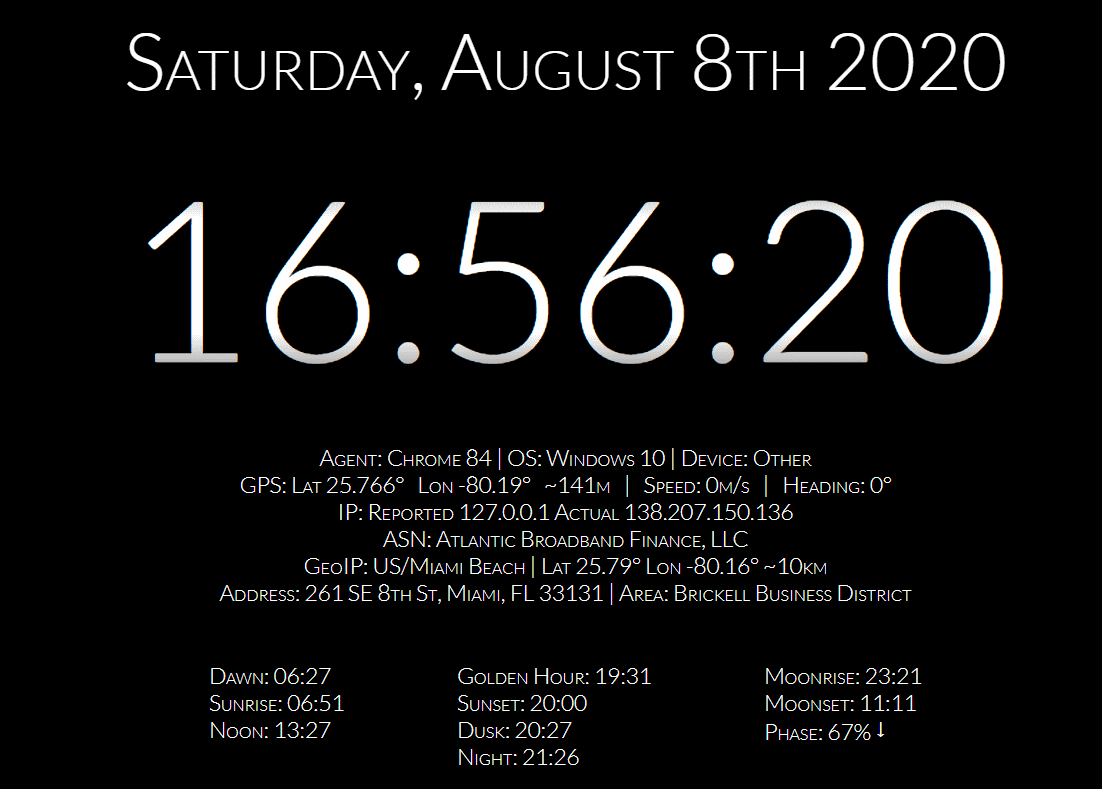
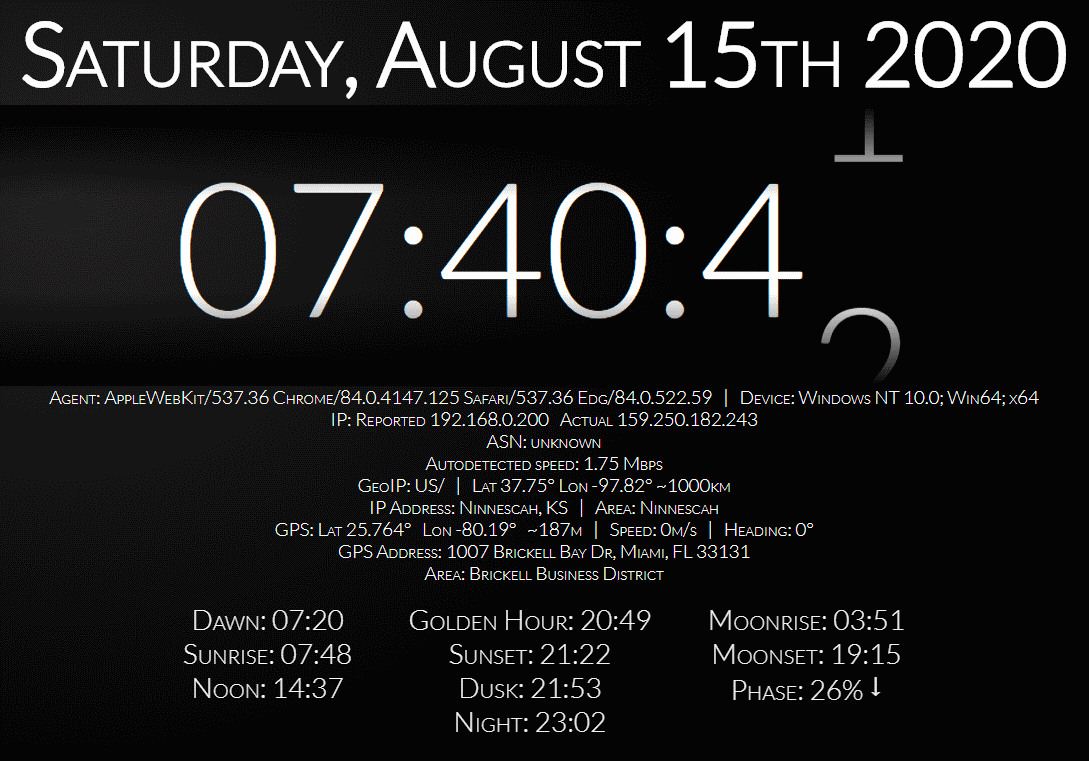
simplified

diff --git a/public/suncalc.js b/public/suncalc.js
@@ -1,1 +1,186 @@
-!function(){"use strict";var n=Math.PI,t=Math.sin,e=Math.cos,r=Math.tan,a=Math.asin,u=Math.atan2,o=Math.acos,i=n/180;function c(n){return new Date(864e5*(n+.5-2440588))}function d(n){return function(n){return n.valueOf()/864e5-.5+2440588}(n)-2451545}var s=23.4397*i;function f(n,a){return u(t(n)*e(s)-r(a)*t(s),e(n))}function l(n,r){return a(t(r)*e(s)+e(r)*t(s)*t(n))}function h(n,a,o){return u(t(n),e(n)*t(a)-r(o)*e(a))}function M(n,r,u){return a(t(r)*t(u)+e(r)*e(u)*e(n))}function g(n,t){return i*(280.16+360.9856235*n)-t}function v(n){return i*(357.5291+.98560028*n)}function w(e){return e+i*(1.9148*t(e)+.02*t(2*e)+3e-4*t(3*e))+102.9372*i+n}function m(n){var t=w(v(n));return{dec:l(t,0),ra:f(t,0)}}var p={getPosition:function(n,t,e){var r=i*-e,a=i*t,u=d(n),o=m(u),c=g(u,r)-o.ra;return{azimuth:h(c,a,o.dec),altitude:M(c,a,o.dec)}}},D=p.times=[[-.833,"sunrise","sunset"],[-.3,"sunriseEnd","sunsetStart"],[-6,"dawn","dusk"],[-12,"nauticalDawn","nauticalDusk"],[-18,"nightEnd","night"],[6,"goldenHourEnd","goldenHour"]];p.addTime=function(n,t,e){D.push([n,t,e])};function P(t,e,r){return 9e-4+(t+e)/(2*n)+r}function y(n,e,r){return 2451545+n+.0053*t(e)-.0069*t(2*r)}function b(n,r,a,u,i,c,d){return y(P(function(n,r,a){return o((t(n)-t(r)*t(a))/(e(r)*e(a)))}(n,a,u),r,i),c,d)}function H(n){var r=i*(134.963+13.064993*n),a=i*(93.272+13.22935*n),u=i*(218.316+13.176396*n)+6.289*i*t(r),o=5.128*i*t(a),c=385001-20905*e(r);return{ra:f(u,o),dec:l(u,o),dist:c}}function T(n,t){return new Date(n.valueOf()+864e5*t/24)}p.getTimes=function(t,e,r){var a,u,o,s,f,h=i*-r,M=i*e,g=function(t,e){return Math.round(t-9e-4-e/(2*n))}(d(t),h),m=P(0,h,g),p=v(m),H=w(p),T=l(H,0),E=y(m,p,H),I={solarNoon:c(E),nadir:c(E-.5)};for(a=0,u=D.length;a<u;a+=1)f=E-((s=b((o=D[a])[0]*i,h,M,T,g,p,H))-E),I[o[1]]=c(f),I[o[2]]=c(s);return I},p.getMoonPosition=function(n,a,o){var c=i*-o,s=i*a,f=d(n),l=H(f),v=g(f,c)-l.ra,w=M(v,s,l.dec),m=u(t(v),r(s)*e(l.dec)-t(l.dec)*e(v));return w+=function(n){return n<0&&(n=0),2967e-7/Math.tan(n+.00312536/(n+.08901179))}(w),{azimuth:h(v,s,l.dec),altitude:w,distance:l.dist,parallacticAngle:m}},p.getMoonIllumination=function(n){var r=d(n||new Date),a=m(r),i=H(r),c=o(t(a.dec)*t(i.dec)+e(a.dec)*e(i.dec)*e(a.ra-i.ra)),s=u(149598e3*t(c),i.dist-149598e3*e(c)),f=u(e(a.dec)*t(a.ra-i.ra),t(a.dec)*e(i.dec)-e(a.dec)*t(i.dec)*e(a.ra-i.ra));return{fraction:(1+e(s))/2,phase:.5+.5*s*(f<0?-1:1)/Math.PI,angle:f}},p.getMoonTimes=function(n,t,e,r){var a=new Date(n);r?a.setUTCHours(0,0,0,0):a.setHours(0,0,0,0);for(var u,o,c,d,s,f,l,h,M,g,v,w,m,D=.133*i,P=p.getMoonPosition(a,t,e).altitude-D,y=1;y<=24&&(u=p.getMoonPosition(T(a,y),t,e).altitude-D,h=((s=(P+(o=p.getMoonPosition(T(a,y+1),t,e).altitude-D))/2-u)*(l=-(f=(o-P)/2)/(2*s))+f)*l+u,g=0,(M=f*f-4*s*u)>=0&&(v=l-(m=Math.sqrt(M)/(2*Math.abs(s))),w=l+m,Math.abs(v)<=1&&g++,Math.abs(w)<=1&&g++,v<-1&&(v=w)),1===g?P<0?c=y+v:d=y+v:2===g&&(c=y+(h<0?w:v),d=y+(h<0?v:w)),!c||!d);y+=2)P=o;var b={};return c&&(b.rise=T(a,c)),d&&(b.set=T(a,d)),c||d||(b[h>0?"alwaysUp":"alwaysDown"]=!0),b},"object"==typeof exports&&"undefined"!=typeof module?module.exports=p:"function"==typeof define&&define.amd?define(p):window.SunCalc=p}();
+/*
+ Based on (c) 2011-2015, Vladimir Agafonkin https://github.com/mourner/suncalc
+*/
+
+// eslint-disable-next-line func-names
+(function () {
+  // shortcuts for easier to read formulas
+  const PI = Math.PI;
+  const sin = Math.sin;
+  const cos = Math.cos;
+  const tan = Math.tan;
+  const asin = Math.asin;
+  const atan = Math.atan2;
+  const acos = Math.acos;
+  const rad = PI / 180;
+  // sun calculations are based on http://aa.quae.nl/en/reken/zonpositie.html formulas
+  // date/time constants and conversions
+  const dayMs = 1000 * 60 * 60 * 24;
+  const J1970 = 2440588;
+  const J2000 = 2451545;
+  function toJulian(date) { return date.valueOf() / dayMs - 0.5 + J1970; }
+  function fromJulian(j) { return new Date((j + 0.5 - J1970) * dayMs); }
+  function toDays(date) { return toJulian(date) - J2000; }
+  // general calculations for position
+  const e = rad * 23.4397; // obliquity of the Earth
+  function rightAscension(l, b) { return atan(sin(l) * cos(e) - tan(b) * sin(e), cos(l)); }
+  function declination(l, b) { return asin(sin(b) * cos(e) + cos(b) * sin(e) * sin(l)); }
+  function azimuth(H, phi, dec) { return atan(sin(H), cos(H) * sin(phi) - tan(dec) * cos(phi)); }
+  function altitude(H, phi, dec) { return asin(sin(phi) * sin(dec) + cos(phi) * cos(dec) * cos(H)); }
+  function siderealTime(d, lw) { return rad * (280.16 + 360.9856235 * d) - lw; }
+  function astroRefraction(h) {
+    if (h < 0) h = 0; // the following formula works for positive altitudes only. if h = -0.08901179 a div/0 would occur.
+    // formula 16.4 of "Astronomical Algorithms" 2nd edition by Jean Meeus (Willmann-Bell, Richmond) 1998.
+    // 1.02 / tan(h + 10.26 / (h + 5.10)) h in degrees, result in arc minutes -> converted to rad:
+    return 0.0002967 / Math.tan(h + 0.00312536 / (h + 0.08901179));
+  }
+  // general sun calculations
+  function solarMeanAnomaly(d) { return rad * (357.5291 + 0.98560028 * d); }
+  function eclipticLongitude(M) {
+    const C = rad * (1.9148 * sin(M) + 0.02 * sin(2 * M) + 0.0003 * sin(3 * M)); // equation of center
+    const P = rad * 102.9372; // perihelion of the Earth
+    return M + C + P + PI;
+  }
+  function sunCoords(d) {
+    const M = solarMeanAnomaly(d);
+    const L = eclipticLongitude(M);
+    return { dec: declination(L, 0), ra: rightAscension(L, 0) };
+  }
+  const SunCalc = {};
+  // calculates sun position for a given date and latitude/longitude
+  SunCalc.getPosition = (date, lat, lng) => {
+    const lw = rad * -lng;
+    const phi = rad * lat;
+    const d = toDays(date);
+    const c = sunCoords(d);
+    const H = siderealTime(d, lw) - c.ra;
+    return { azimuth: azimuth(H, phi, c.dec), altitude: altitude(H, phi, c.dec) };
+  };
+  // sun times configuration (angle, morning name, evening name)
+  SunCalc.times = [[-0.833, 'sunrise', 'sunset'], [-0.3, 'sunriseEnd', 'sunsetStart'], [-6, 'dawn', 'dusk'], [-12, 'nauticalDawn', 'nauticalDusk'], [-18, 'nightEnd', 'night'], [6, 'goldenHourEnd', 'goldenHour']];
+  const times = SunCalc.times;
+  // adds a custom time to the times config
+  SunCalc.addTime = (angle, riseName, setName) => times.push([angle, riseName, setName]);
+  // calculations for sun times
+  const J0 = 0.0009;
+  function julianCycle(d, lw) { return Math.round(d - J0 - lw / (2 * PI)); }
+  function approxTransit(Ht, lw, n) { return J0 + (Ht + lw) / (2 * PI) + n; }
+  function solarTransitJ(ds, M, L) { return J2000 + ds + 0.0053 * sin(M) - 0.0069 * sin(2 * L); }
+  function hourAngle(h, phi, d) { return acos((sin(h) - sin(phi) * sin(d)) / (cos(phi) * cos(d))); }
+  function observerAngle(height) { return -2.076 * Math.sqrt(height) / 60; }
+  // returns set time for the given sun altitude
+  function getSetJ(h, lw, phi, dec, n, M, L) {
+    const w = hourAngle(h, phi, dec);
+    const a = approxTransit(w, lw, n);
+    return solarTransitJ(a, M, L);
+  }
+  // calculates sun times for a given date, latitude/longitude, and, optionally,
+  // the observer height (in meters) relative to the horizon
+  SunCalc.getTimes = (date, lat, lng, height) => {
+    height = height || 0;
+    const lw = rad * -lng;
+    const phi = rad * lat;
+    const dh = observerAngle(height);
+    const d = toDays(date);
+    const n = julianCycle(d, lw);
+    const ds = approxTransit(0, lw, n);
+    const M = solarMeanAnomaly(ds);
+    const L = eclipticLongitude(M);
+    const dec = declination(L, 0);
+    const Jnoon = solarTransitJ(ds, M, L);
+    let i; let len; let time; let h0; let Jset; let Jrise;
+    const result = { solarNoon: fromJulian(Jnoon), nadir: fromJulian(Jnoon - 0.5) };
+    for (i = 0, len = times.length; i < len; i += 1) {
+      time = times[i];
+      h0 = (time[0] + dh) * rad;
+      Jset = getSetJ(h0, lw, phi, dec, n, M, L);
+      Jrise = Jnoon - (Jset - Jnoon);
+      result[time[1]] = fromJulian(Jrise);
+      result[time[2]] = fromJulian(Jset);
+    }
+    return result;
+  };
+  // moon calculations, based on http://aa.quae.nl/en/reken/hemelpositie.html formulas
+  function moonCoords(d) { // geocentric ecliptic coordinates of the moon
+    const L = rad * (218.316 + 13.176396 * d); // ecliptic longitude
+    const M = rad * (134.963 + 13.064993 * d); // mean anomaly
+    const F = rad * (93.272 + 13.229350 * d); // mean distance
+    const l = L + rad * 6.289 * sin(M); // longitude
+    const b = rad * 5.128 * sin(F); // latitude
+    const dt = 385001 - 20905 * cos(M); // distance to the moon in km
+    return { ra: rightAscension(l, b), dec: declination(l, b), dist: dt };
+  }
+  SunCalc.getMoonPosition = (date, lat, lng) => {
+    const lw = rad * -lng;
+    const phi = rad * lat;
+    const d = toDays(date);
+    const c = moonCoords(d);
+    const H = siderealTime(d, lw) - c.ra;
+    let h = altitude(H, phi, c.dec);
+    // formula 14.1 of "Astronomical Algorithms" 2nd edition by Jean Meeus (Willmann-Bell, Richmond) 1998.
+    const pa = atan(sin(H), tan(phi) * cos(c.dec) - sin(c.dec) * cos(H));
+    h += astroRefraction(h); // altitude correction for refraction
+    return { azimuth: azimuth(H, phi, c.dec), altitude: h, distance: c.dist, parallacticAngle: pa };
+  };
+  // calculations for illumination parameters of the moon,
+  // based on http://idlastro.gsfc.nasa.gov/ftp/pro/astro/mphase.pro formulas and
+  // Chapter 48 of "Astronomical Algorithms" 2nd edition by Jean Meeus (Willmann-Bell, Richmond) 1998.
+  SunCalc.getMoonIllumination = (date) => {
+    const d = toDays(date || new Date());
+    const s = sunCoords(d);
+    const m = moonCoords(d);
+    const sdist = 149598000; // distance from Earth to Sun in km
+    const phi = acos(sin(s.dec) * sin(m.dec) + cos(s.dec) * cos(m.dec) * cos(s.ra - m.ra));
+    const inc = atan(sdist * sin(phi), m.dist - sdist * cos(phi));
+    const angle = atan(cos(s.dec) * sin(s.ra - m.ra), sin(s.dec) * cos(m.dec) - cos(s.dec) * sin(m.dec) * cos(s.ra - m.ra));
+    return { fraction: (1 + cos(inc)) / 2, phase: 0.5 + 0.5 * inc * (angle < 0 ? -1 : 1) / Math.PI, angle };
+  };
+  function hoursLater(date, h) {
+    return new Date(date.valueOf() + h * dayMs / 24);
+  }
+  // calculations for moon rise/set times are based on http://www.stargazing.net/kepler/moonrise.html article
+  SunCalc.getMoonTimes = (date, lat, lng, inUTC) => {
+    const t = new Date(date);
+    if (inUTC) t.setUTCHours(0, 0, 0, 0);
+    else t.setHours(0, 0, 0, 0);
+    const hc = 0.133 * rad;
+    let h0 = SunCalc.getMoonPosition(t, lat, lng).altitude - hc;
+    let h1; let h2; let rise; let set; let a; let b; let xe; let ye; let d; let roots; let x1; let x2; let dx;
+    // go in 2-hour chunks, each time seeing if a 3-point quadratic curve crosses zero (which means rise or set)
+    for (let i = 1; i <= 24; i += 2) {
+      h1 = SunCalc.getMoonPosition(hoursLater(t, i), lat, lng).altitude - hc;
+      h2 = SunCalc.getMoonPosition(hoursLater(t, i + 1), lat, lng).altitude - hc;
+      a = (h0 + h2) / 2 - h1;
+      b = (h2 - h0) / 2;
+      xe = -b / (2 * a);
+      ye = (a * xe + b) * xe + h1;
+      d = b * b - 4 * a * h1;
+      roots = 0;
+      if (d >= 0) {
+        dx = Math.sqrt(d) / (Math.abs(a) * 2);
+        x1 = xe - dx;
+        x2 = xe + dx;
+        if (Math.abs(x1) <= 1) roots += 1;
+        if (Math.abs(x2) <= 1) roots += 1;
+        if (x1 < -1) x1 = x2;
+      }
+      if (roots === 1) {
+        if (h0 < 0) rise = i + x1;
+        else set = i + x1;
+      } else if (roots === 2) {
+        rise = i + (ye < 0 ? x2 : x1);
+        set = i + (ye < 0 ? x1 : x2);
+      }
+      if (rise && set) break;
+      h0 = h2;
+    }
+    const result = {};
+    if (rise) result.rise = hoursLater(t, rise);
+    if (set) result.set = hoursLater(t, set);
+    if (!rise && !set) result[ye > 0 ? 'alwaysUp' : 'alwaysDown'] = true;
+    return result;
+  };
+  // export as Node module / AMD module / browser variable
+  if (typeof exports === 'object' && typeof module !== 'undefined') module.exports = SunCalc;
+  else window.SunCalc = SunCalc;
+}());

diff --git a/public/piclock.js b/public/piclock.js
@@ -1,4 +1,4 @@
-/* global SunCalc, moment */
+/* global SunCalc */
 
 async function printAstronomy(lat, lon) {
   // eslint-disable-next-line no-console
@@ -9,7 +9,7 @@ async function printAstronomy(lat, lon) {
   const moon = SunCalc.getMoonTimes(dt, lat || 0, lon || 0);
   const pos = SunCalc.getMoonIllumination(dt);
   const phase = `<span style="display:inline-block;transform:rotate(${(pos.phase <= 0.5) ? 0 : 180}deg);"> ↑ </span>`;
-  const time = (date) => moment(date).format('HH:mm');
+  const time = (date) => `${new Date(date).getHours().toString().padStart(2, '0')}:${new Date(date).getMinutes().toString().padStart(2, '0')}`;
   div.innerHTML = `
     <span class="astronomy">Dawn: ${time(sun.dawn)}<br>Sunrise: ${time(sun.sunrise)}<br>Noon: ${time(sun.solarNoon)}</span>
     <span class="astronomy">Golden Hour: ${time(sun.goldenHour)}<br>Sunset: ${time(sun.sunsetStart)}<br>Dusk: ${time(sun.dusk)}<br>Night: ${time(sun.night)}</span>
@@ -76,7 +76,58 @@ async function lookupConn() {
   document.getElementById('div-connection').innerHTML = ((conn.type && conn.type !== 'unknown') ? `Connection: ${conn.type} | ` : '') + (conn.downlink ? `Autodetected speed: ${conn.downlink} Mbps` : '');
 }
 
+let last = new Date(0);
+
+function updateNumber(element, number) {
+  const second = element.lastElementChild.cloneNode(true);
+  second.textContent = number;
+  element.classList.add('clock-move');
+  element.appendChild(second);
+  setTimeout(() => {
+    element.classList.remove('clock-move');
+    element.removeChild(element.firstElementChild);
+  }, 750);
+}
+
+function updateContainer(container, time) {
+  const s = time.toString().padStart(2, '0').split('');
+  const first = container.firstElementChild;
+  if (first.lastElementChild.textContent !== s[0]) updateNumber(first, s[0]);
+  const second = container.lastElementChild;
+  if (second.lastElementChild.textContent !== s[1]) updateNumber(second, s[1]);
+}
+
+function updateTime() {
+  const now = new Date();
+  if (last.getHours() !== now.getHours()) updateContainer(document.getElementById('hours'), now.getHours());
+  if (last.getMinutes() !== now.getMinutes()) updateContainer(document.getElementById('minutes'), now.getMinutes());
+  if (last.getSeconds() !== now.getSeconds()) updateContainer(document.getElementById('seconds'), now.getSeconds());
+  last = now;
+}
+
+async function updateDate() {
+  const dt = new Date();
+  const days = ['Sunday', 'Monday', 'Tuesday', 'Wednesday', 'Thursday', 'Friday', 'Saturday'];
+  const months = ['January', 'February', 'March', 'April', 'May', 'June', 'July', 'August', 'September', 'October', 'November', 'December'];
+
+  document.getElementById('date').innerHTML = `
+    ${days[dt.getDay()]}, &nbsp
+    ${months[dt.getMonth()]} ${dt.getDate()}
+    ${dt.getFullYear()}
+  `;
+}
+
+function dateTime() {
+  // eslint-disable-next-line no-console
+  console.log('initDateTime', new Date());
+  updateTime();
+  updateDate();
+  setInterval(updateTime, 1000);
+  setTimeout(updateDate, 5 * 60 * 1000);
+}
+
 async function main() {
+  dateTime();
   lookupIP();
   lookupConn();
   document.addEventListener('click', () => {

diff --git a/public/piclock.html b/public/piclock.html
@@ -15,9 +15,7 @@
   <link rel="apple-touch-icon" sizes="256x256" href="/favicon.png">
   <link rel="apple-touch-startup-image" href="/favicon.png">
   <script defer type="text/javascript" src="/suncalc.js"></script>
-  <script defer type="text/javascript" src="/moment.js"></script>
-  <script defer type="text/javascript" src="/datetime.js"></script>
-  <script defer type="text/javascript" src="/lookup.js"></script>
+  <script defer type="text/javascript" src="/piclock.js"></script>
   <style>
     @font-face { font-family: 'Lato'; font-display: swap; font-style: normal; font-weight: 400; src: local('Lato'), url('/lato.ttf') format('truetype'); }
     @keyframes fade { 0% { opacity:0; } 100% { opacity:1; } }

diff --git a/README.md b/README.md
@@ -4,6 +4,6 @@
 
 Plus a little bit of GPS lookups, GeoIP lookups, GeoDecoding, Agent analysis, Astronomy calculations, etc...
 
-Written in NodeJS using pure ES6 without client or server frameworks
+Written in NodeJS using pure ES7 without client or server frameworks
 
 ![alt text](public/screenshot.png)
